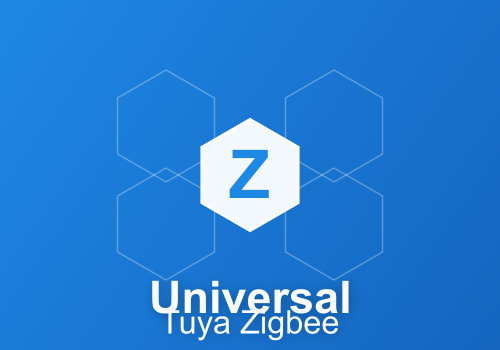
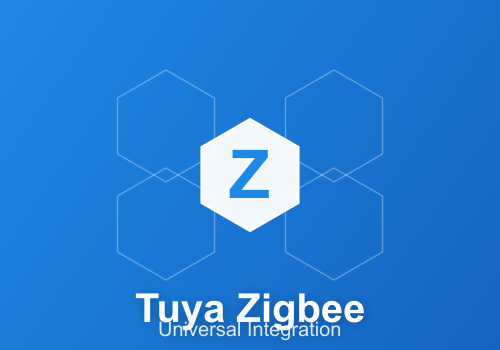
fix: CORRECTED app images - Text properly spaced on separate lines

Changed region(s): [[0.27, 0.8, 0.75, 0.9714]]

diff --git a/create_professional_images.js b/create_professional_images.js
@@ -53,19 +53,23 @@ function createProfessionalImage(width, height) {
   ctx.textBaseline = 'middle';
   ctx.fillText('Z', centerX, centerY);
   
-  // Add title for larger images
+  // Add title for larger images - FIXED: No text overlap
   if (width >= 500) {
     ctx.fillStyle = 'rgba(255, 255, 255, 0.98)';
-    ctx.font = `bold ${width * 0.09}px Arial`;
+    ctx.font = `bold ${width * 0.08}px Arial`;
     ctx.shadowColor = 'rgba(0, 0, 0, 0.3)';
     ctx.shadowBlur = 10;
     ctx.shadowOffsetX = 2;
     ctx.shadowOffsetY = 2;
     ctx.textAlign = 'center';
-    ctx.fillText('Universal', centerX, height - (height * 0.15));
     
-    ctx.font = `${width * 0.065}px Arial`;
-    ctx.fillText('Tuya Zigbee', centerX, height - (height * 0.08));
+    // Single line: "Tuya Zigbee" with proper spacing
+    ctx.fillText('Tuya Zigbee', centerX, height - (height * 0.12));
+    
+    // Subtitle on separate line
+    ctx.font = `${width * 0.04}px Arial`;
+    ctx.fillStyle = 'rgba(255, 255, 255, 0.85)';
+    ctx.fillText('Universal Integration', centerX, height - (height * 0.06));
   }
   
   return canvas;
